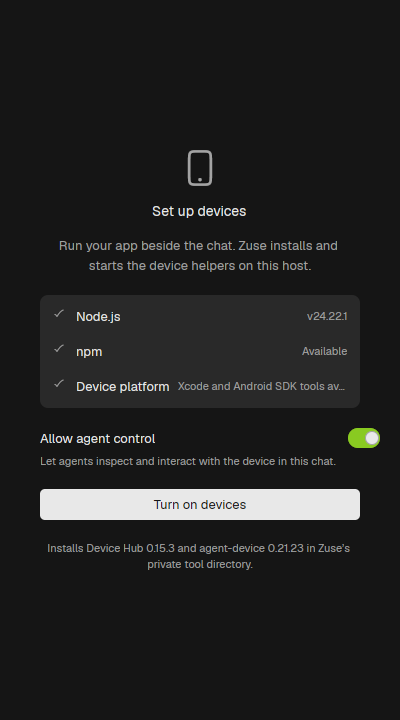
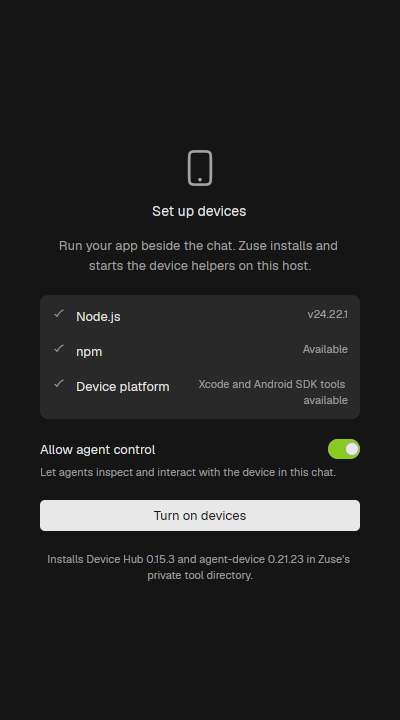
Fix simulator setup alignment in narrow panes

Changed region(s): [[0.09, 0.5806, 0.96, 0.825], [0.45, 0.4278, 0.87, 0.5806]]

diff --git a/crates/ui/src/simulator.rs b/crates/ui/src/simulator.rs
@@ -395,15 +395,17 @@ impl SimulatorPane {
                                 .child(
                                     div()
                                         .flex()
-                                        .items_center()
+                                        .items_start()
                                         .gap(px(8.))
-                                        .child(div().flex_1().child(requirement.label.clone()))
+                                        .child(div().flex_none().child(requirement.label.clone()))
                                         .when(requirement.ready, |row| {
                                             row.child(
                                                 div()
+                                                    .flex_1()
                                                     .min_w_0()
-                                                    .truncate()
+                                                    .text_right()
                                                     .text_size(px(11.))
+                                                    .line_height(px(16.))
                                                     .text_color(theme.text_muted)
                                                     .child(requirement.detail.clone()),
                                             )
@@ -462,13 +464,42 @@ impl SimulatorPane {
             );
         }
         if !enabled {
-            card=card.child(div().id("simulator-setup-agents").role(Role::Switch).aria_label("Allow agents to control devices").aria_toggled(if agents {gpui::Toggled::True} else {gpui::Toggled::False}).tab_index(0)
-                .flex().items_start().gap(px(12.)).cursor_pointer()
-                .child(div().flex_1().flex().flex_col().gap(px(4.))
-                    .child("Allow agent control")
-                    .child(div().text_size(px(11.)).line_height(px(16.)).text_color(theme.text_muted).child("Let agents inspect and interact with the device in this chat.")))
-                .child(crate::settings::widgets::toggle_switch(&theme,agents,"simulator-setup-agents-switch"))
-                .on_click(cx.listener(move |this,_,_,cx| {this.setup_agents=Some(!agents);cx.notify();})));
+            card = card.child(
+                div()
+                    .id("simulator-setup-agents")
+                    .role(Role::Switch)
+                    .aria_label("Allow agents to control devices")
+                    .aria_toggled(if agents { gpui::Toggled::True } else { gpui::Toggled::False })
+                    .tab_index(0)
+                    .w_full()
+                    .min_w_0()
+                    .flex()
+                    .flex_col()
+                    .gap(px(4.))
+                    .cursor_pointer()
+                    .child(
+                        div()
+                            .w_full()
+                            .flex()
+                            .items_center()
+                            .gap(px(12.))
+                            .child(div().flex_1().min_w_0().child("Allow agent control"))
+                            .child(crate::settings::widgets::toggle_switch(
+                                &theme, agents, "simulator-setup-agents-switch",
+                            )),
+                    )
+                    .child(
+                        div()
+                            .text_size(px(11.))
+                            .line_height(px(16.))
+                            .text_color(theme.text_muted)
+                            .child("Let agents inspect and interact with the device in this chat."),
+                    )
+                    .on_click(cx.listener(move |this, _, _, cx| {
+                        this.setup_agents = Some(!agents);
+                        cx.notify();
+                    })),
+            );
             if blocked || checking {
                 card = card.child(self.button(
                     "simulator-check-again",

diff --git a/crates/ui/examples/simulator-fixture.rs b/crates/ui/examples/simulator-fixture.rs
@@ -139,6 +139,12 @@ fn main() -> anyhow::Result<()> {
                     cx.background_executor().timer(Duration::from_millis(350)).await;
                     capture(setup_window.into(),cx,&output.join(format!("{name}.png"))).await?;
                 }
+                // Keep the setup controls inside a narrow right pane as descriptions wrap.
+                let narrow_window=cx.update(|cx|cx.open_window(WindowOptions{window_bounds:Some(WindowBounds::Windowed(Bounds::new(gpui::point(px(30.),px(30.)),size(px(280.),px(720.))))),..Default::default()},|window,cx|cx.new(|cx|simulator::SimulatorPane::new(setup_handle.clone(),"simulator-fixture".into(),device.clone(),window,cx))))?;
+                narrow_window.update(cx,|pane,_,cx|pane.fixture_load(zuse_protocol::simulators::State{agent_access:true,setup:Some(Setup{status:SetupStatus::Disabled,requirements:host_requirements.clone(),..Default::default()}),..Default::default()},None,cx))?;
+                cx.background_executor().timer(Duration::from_millis(350)).await;
+                capture(narrow_window.into(),cx,&output.join("simulator-onboarding-narrow.png")).await?;
+                narrow_window.update(cx,|_,window,_|window.remove_window())?;
                 setup_window.update(cx,|_,window,_|window.remove_window())?;
                 let pixels=image::load_from_memory(include_bytes!("simulator-sample.png"))?.to_rgba8();
                 let mut png=std::io::Cursor::new(Vec::new());image::DynamicImage::ImageRgba8(pixels).write_to(&mut png,image::ImageFormat::Png)?;

diff --git a/internal-docs/device-simulators.md b/internal-docs/device-simulators.md
@@ -156,6 +156,7 @@ cargo test -p zuse-simulator --lib setup::smoke::pinned_helpers_install_verify_a
 
 The production native pane fixture captures scripted host-progress states:
 [onboarding](screenshots/device-simulator/simulator-onboarding.png),
+[narrow onboarding](screenshots/device-simulator/simulator-onboarding-narrow.png),
 [checking](screenshots/device-simulator/simulator-checking.png),
 [hub installation](screenshots/device-simulator/simulator-installing-hub.png),
 [hub startup](screenshots/device-simulator/simulator-starting-hub.png),
@@ -163,6 +164,9 @@ The production native pane fixture captures scripted host-progress states:
 [agent installation](screenshots/device-simulator/simulator-installing-agent.png),
 [hub failure/retry](screenshots/device-simulator/simulator-install-error.png), and
 [agent failure/retry](screenshots/device-simulator/simulator-agent-error.png).
+The onboarding fixture also renders at 280px: the switch stays aligned with its
+heading, the description wraps beneath it, and requirement details wrap without
+pushing controls outside the pane.
 These are native UI renders with fixture progress, rather than a recording of
 the network smoke test. The picker and dark/light viewer use synthetic device
 and sample app data. No real simulator/emulator execution is implied by captures.
